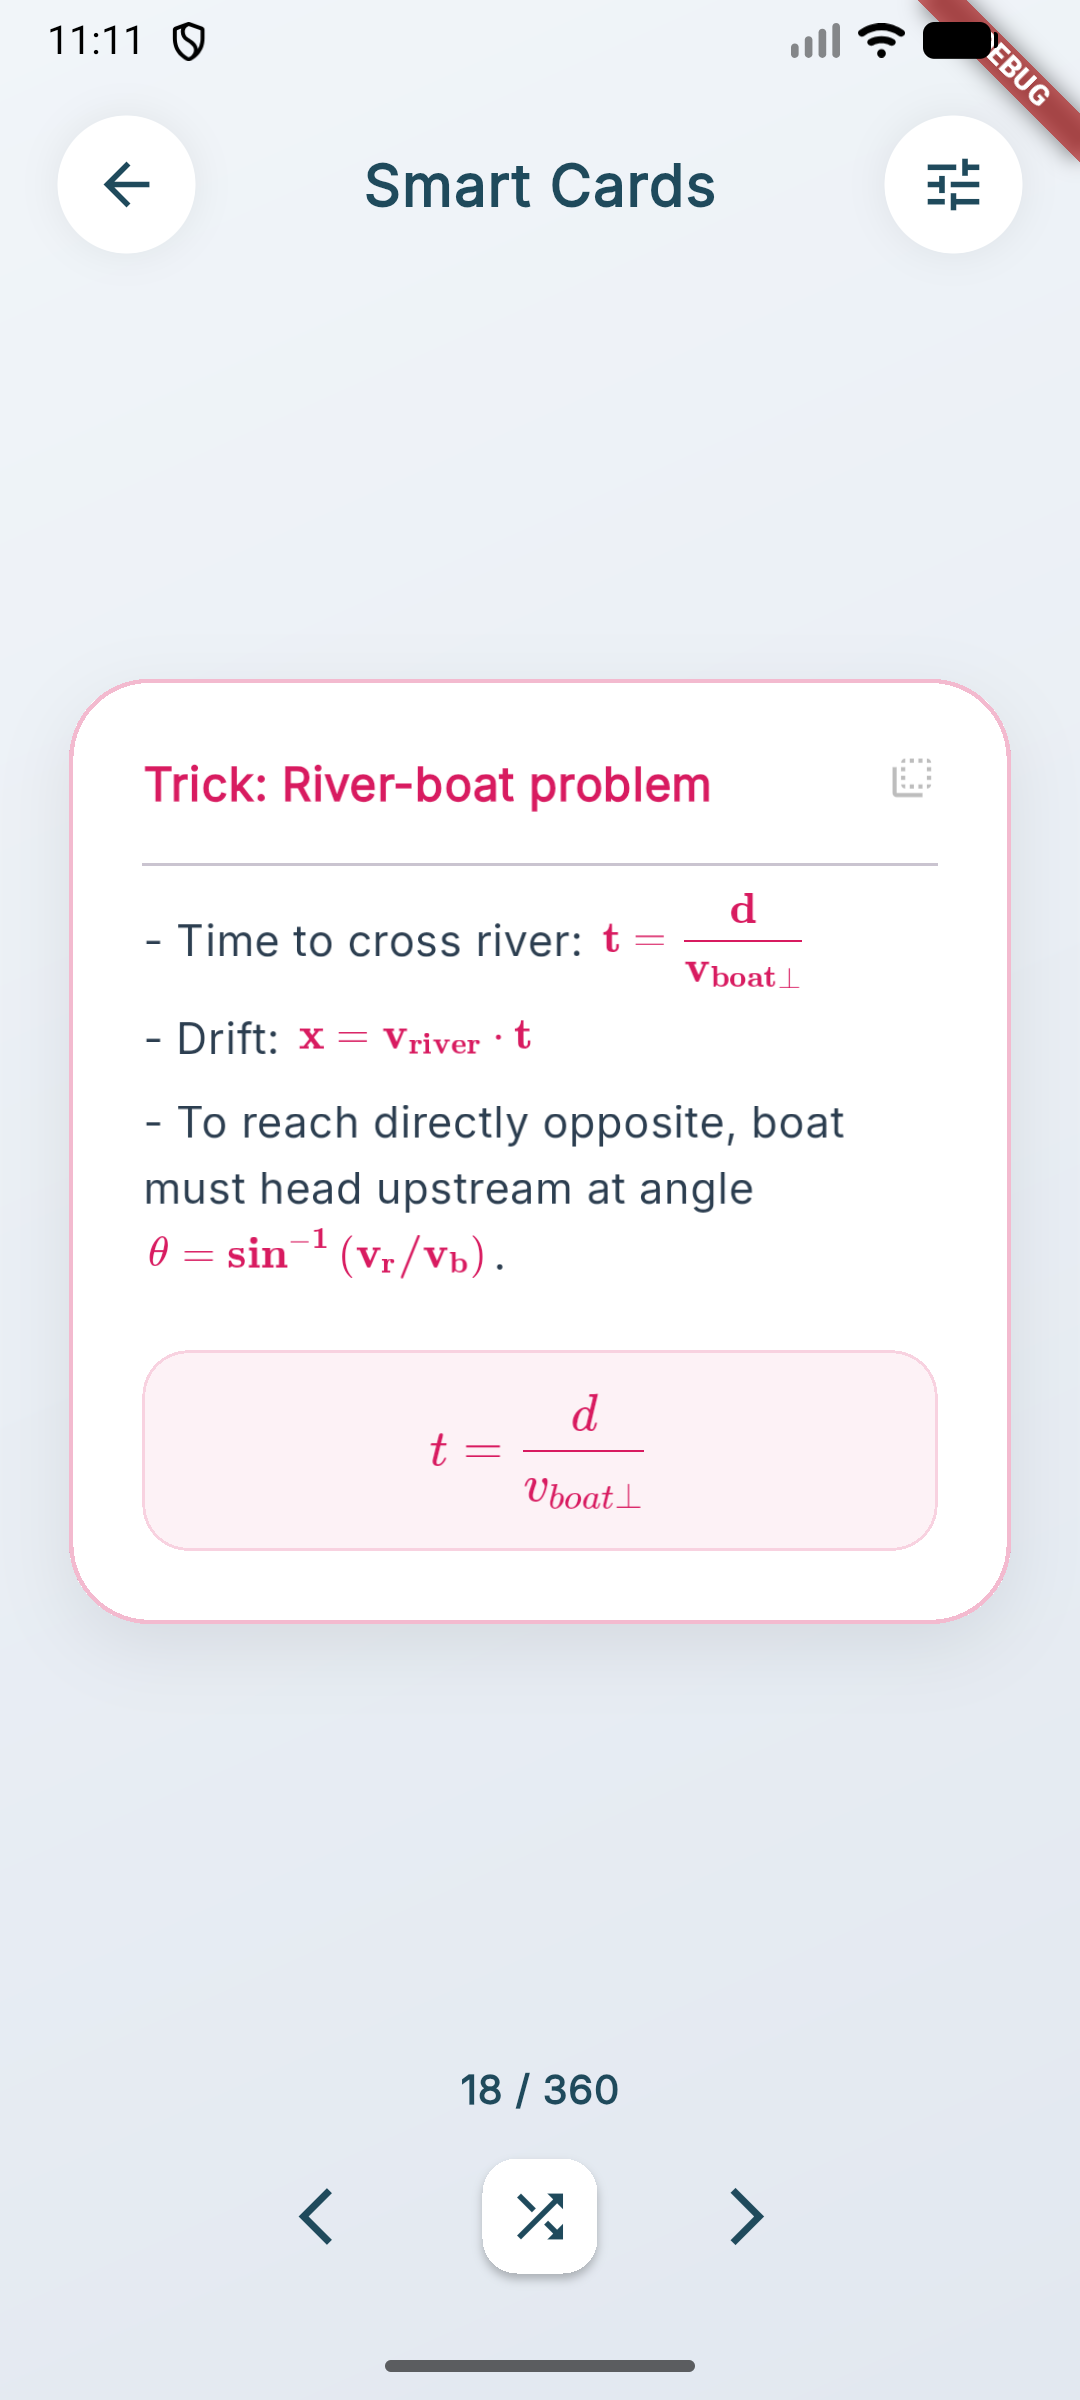
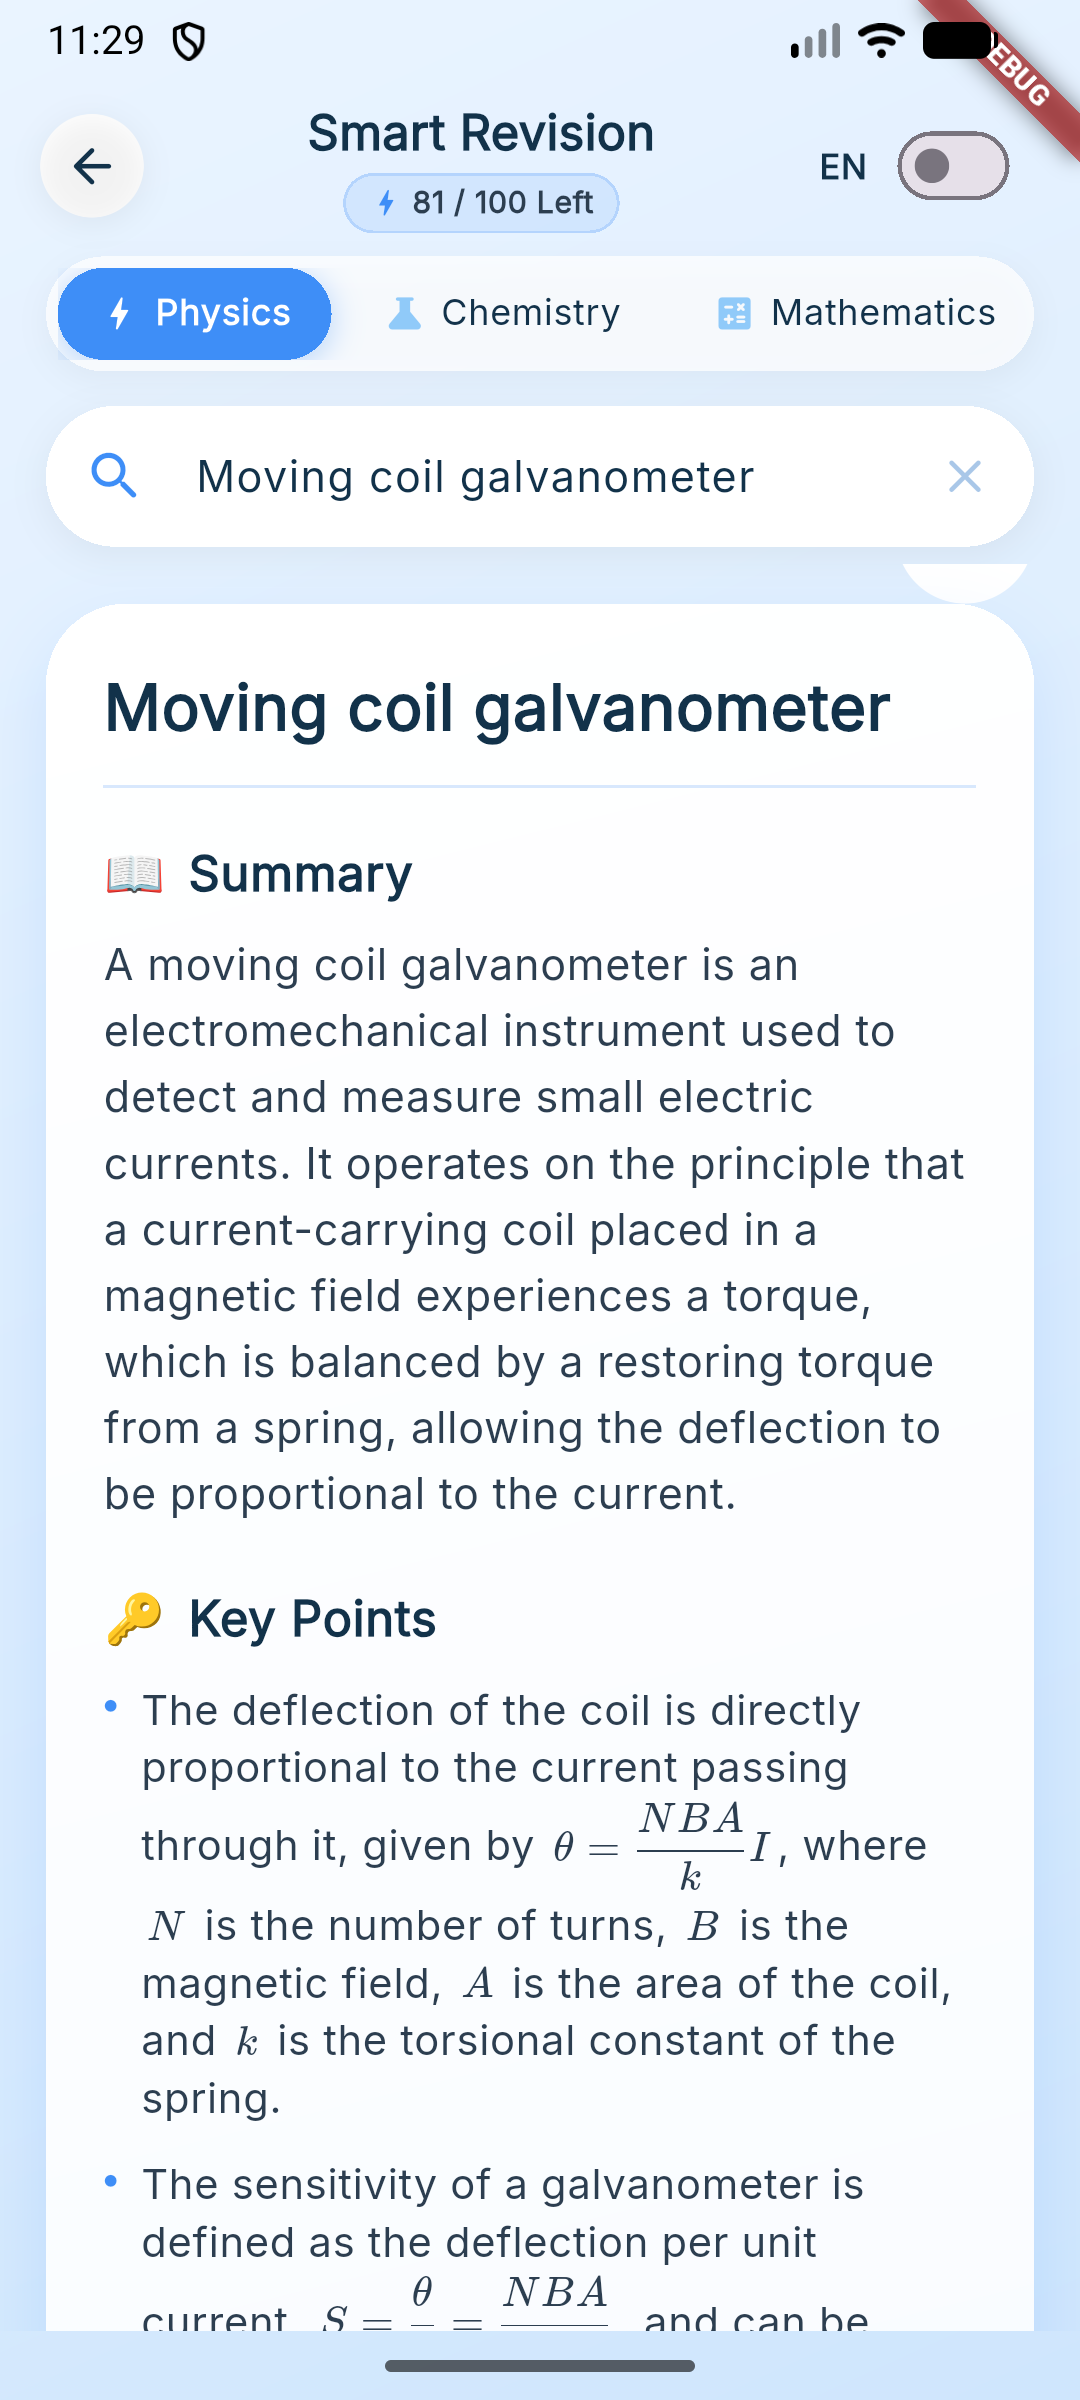
update 5

diff --git a/app/page.tsx b/app/page.tsx
@@ -87,11 +87,13 @@ const showcase = [
     title: 'Build the exact practice set you need',
     desc: 'Choose exam, subject, chapter and topic, then let the configurator balance the set for you. No repeats, no gaps.',
     label: 'DIY Configurator',
+    src: '/screenshots/diy-configurator.png',
   },
   {
     title: 'A doubt, solved in seconds',
     desc: 'Type or capture a question and get a clean, step-by-step explanation — built for the way JEE and NEET problems are actually asked.',
     label: 'AI Doubt Resolution',
+    src: '/screenshots/ai-doubt-resolution.png',
   },
 ];
 
